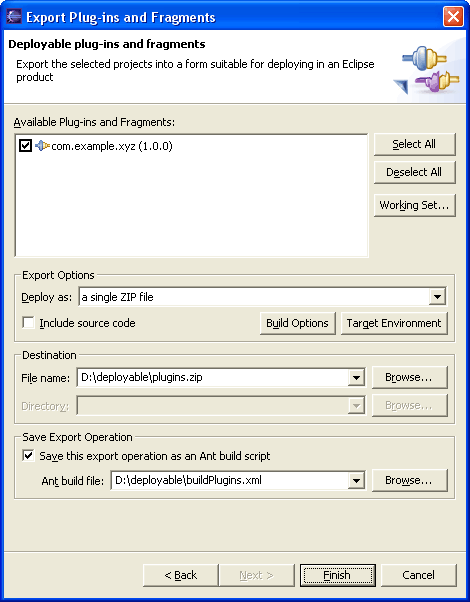
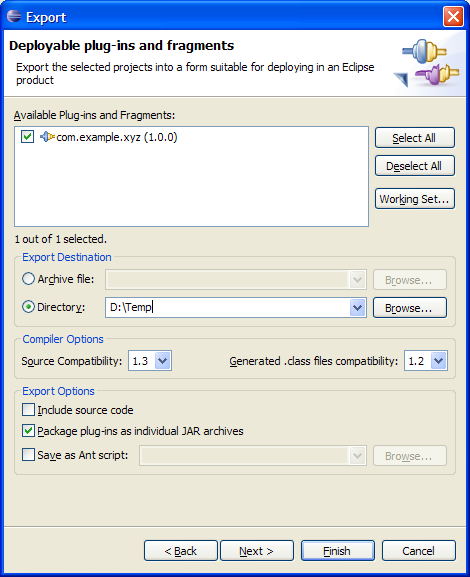
*** empty log message ***

Changed region(s): [[0.0, 0.0, 1.0, 0.8423], [0.0, 0.9047, 1.0, 0.9983]]

diff --git a/bundles/org.eclipse.pde.doc.user/guide/pde_deploy.htm b/bundles/org.eclipse.pde.doc.user/guide/pde_deploy.htm
@@ -9,28 +9,22 @@
 
 <BODY BGCOLOR="#ffffff">
 
-<h1>Deploying a plug-in</h1>
-<p>During the design phase, plug-ins and fragments in your workspace are used
-as-is so that you can quickly test and debug. Once you reach the stage where you
-are satisfied with your code, you need to publish it in a form fit for delivery on
-the platform.&nbsp;&nbsp;&nbsp;</p>
-<p>The easiest way to do so is through the <b>Export Plug-ins and Fragments</b> Wizard.&nbsp; It shields you from ant scripts and does not pollute your 
-workspace with resources generated during the build operations:</p>
-<ol>
-  <li>Select <b>File &gt; Export... &gt; Deployable plug-ins and fragments</b>.</li>
-  <li>Select the plug-ins and fragments you want to export.&nbsp; </li>
-  <li>You can deploy the plug-ins in one of three formats:
-  <ul>
-    <li>a single ZIP file whose content can be unzipped into any Eclipse-based 
-    product.</li>
-    <li>a directory structure, so the destination of the export operation can be 
-    the root of an Eclipse installation.</li>
-    <li>individual JAR archives for an Update site.&nbsp; This option will 
-    result in the creation of one JAR per plug-in, and the JARs will be placed 
-    in a plugins/ subdirectory of the chosen destination.</li>
-  </ul></li>
-</ol>
+<h1>Exporting a plug-in</h1>
+<p>During the design phase, plug-ins and fragments in your workspace are used 
+  as-is so that you can quickly test and debug. Once you reach the stage where 
+  you are satisfied with your code, you need to publish it in a form suitable 
+  for deployment in an Eclipse product.</p>
+<p>The easiest way to do so is through the <b>Export Plug-ins and Fragments</b> 
+  Wizard.&nbsp; It shields you from ant scripts and does not pollute your workspace 
+  with resources generated during the build operations:</p>
+<p>Select <b>File &gt; Export... &gt; Deployable plug-ins and fragments</b></p>
+<p>Select the plug-ins and fragments you want to export.&nbsp; </p>
+<p>The export destination can be an archive or a directory.</p>
 <p align="center"><img border="0" src="images/plugin-export.png" alt="Export plug-ins and fragments wizard" ></p>
+<p align="left">The recommended format for a deployable plug-in in 3.1 to be packaged 
+  as a JAR archive. Refer to the <a href="plugins_as_jars.htm">Exporting your 
+  plug-in as a JAR</a> document for details if you have a pre-3.1 plug-in that 
+  you need to JAR. </p>
 <p>You also have the option to save the settings of this export operation.&nbsp; 
 This way you would be able to redo this export operation without having to go 
 through the wizard all over again.</p>

diff --git a/bundles/org.eclipse.pde.doc.user/guide/pde_running_tracing.htm b/bundles/org.eclipse.pde.doc.user/guide/pde_running_tracing.htm
@@ -23,12 +23,10 @@ return true if the value of this tracing variable is true. Other tracing flags
 are defined by you and their value can be obtained by using</p>
 <font color='#4444CC'><pre>   Platform.getDebugOption(optionName);
 </pre></font>
-<p>Most of the platform plug-ins define tracing flags, particularly the platform
-core. For a
-new plug-in developer, the most interesting set of tracing flags are those
-related to class loading, because they can allow tracing of plug-in loading
-problems.&nbsp;</p>
-<p> I</p>
+<p>Most of the platform plug-ins define tracing flags, particularly the platform 
+  core. For a new plug-in developer, the most interesting set of tracing flags 
+  are those related to class loading, because they can allow tracing of plug-in 
+  loading problems. </p>
 <p align="center">
 <img border="0" src="images/launch-tracing.png" alt="Run-time workbench launcher - tracing" ></p>
 <h2>Example:&nbsp; Adding tracing support to your plug-in</h2>
@@ -47,10 +45,9 @@ the default text editor opens, add the following entries:</p>
    com.example.xyz/debug/flag = true
    com.example.xyz/debug/filter = *
 </pre></font>
-<p>When this file is saved, select <b>Run &gt; Run...</b> to open the launch
-dialog. Our
-plug-in should now show up in the list. When selected,
-it should show the newly defined flags with their default values.</p>
+<p>When this file is saved, select <b>Run &gt; Run...</b> to open the launch dialog. 
+  Our plug-in should now show up in the list. When selected, it should show the 
+  newly defined flags with their default values.</p>
 <p align="center">
 <img border="0" src="images/xyz-tracing.png" alt="Run-time workbench launcher - tracing example" ></p>
 <p>Creating the <b>.options</b> file only defines the availability flags,
